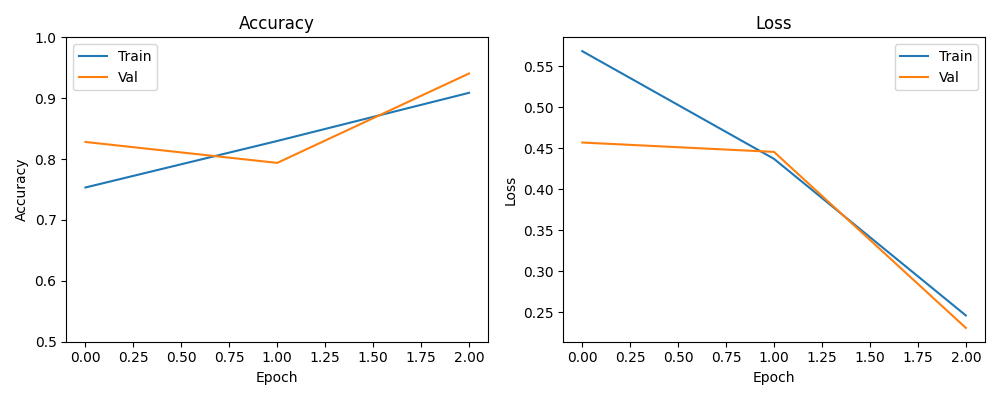
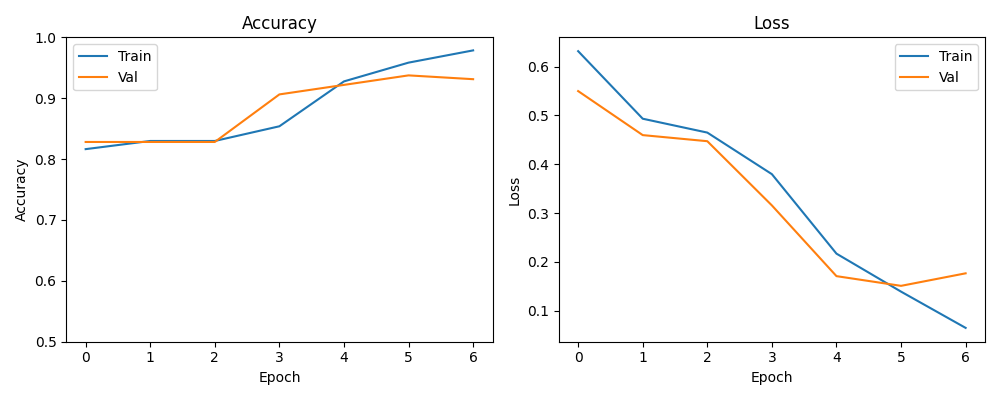
Updated bert

diff --git a/Hindi-Bert/Hindi-bert.py b/Hindi-Bert/Hindi-bert.py
@@ -26,45 +26,32 @@ def clean_hindi_text(text):
 
 # Load and preprocess data
 def load_data():
-    # Load dataset
     df_sarcastic = pd.read_csv('../data/Sarcasm_Hindi_Tweets-SARCASTIC.csv')
     df_non_sarcastic = pd.read_csv('../data/Sarcasm_Hindi_Tweets-NON-SARCASTIC.csv')
 
-    # Assign labels
     df_sarcastic['label'] = 'sarcastic'
     df_non_sarcastic['label'] = 'non_sarcastic'
 
-    # Combine datasets
     df = pd.concat([df_sarcastic, df_non_sarcastic], axis=0)
 
-    # Drop unnecessary columns
     columns_to_drop = ['username', 'acctdesc', 'location', 'following', 'followers', 
                        'totaltweets', 'usercreatedts', 'tweetcreatedts', 'retweetcount', 'hashtags']
     df = df.drop(columns=[col for col in columns_to_drop if col in df.columns], axis=1)
 
-    # Reset index
     df = df.reset_index(drop=True)
 
-    # Apply text cleaning
     df['clean_text'] = df['text'].apply(clean_hindi_text)
 
-    # Check for duplicates in clean_text
     duplicates = df[df.duplicated('clean_text', keep=False)]
     if not duplicates.empty:
         print(f"Found {len(duplicates)} duplicates in clean_text.")
-        
-        # Check for label conflicts among duplicates
         conflict_groups = duplicates.groupby('clean_text')['label'].nunique()
         conflicts = conflict_groups[conflict_groups > 1]
-        
         if not conflicts.empty:
             print(f"Found {len(conflicts)} clean_text entries with conflicting labels.")
-            # Remove entries with conflicting labels
             conflict_texts = conflicts.index
             df = df[~df['clean_text'].isin(conflict_texts)]
             print(f"Removed {len(conflict_texts)} conflicting entries.")
-        
-        # Remove duplicates, keeping the first occurrence
         df = df.drop_duplicates(subset='clean_text', keep='first')
         print(f"Removed duplicates, keeping first occurrence. New size: {len(df)}")
     else:
@@ -72,40 +59,28 @@ def load_data():
 
     return df
 
-# Main execution
 if __name__ == '__main__':
-    # Load and preprocess data
     df = load_data()
     
-    # Print basic statistics
     print("Total samples:", len(df))
     print("Class distribution:\n", df['label'].value_counts())
     
-    # Train-test split
     X_train, X_test, y_train, y_test = train_test_split(
         df['clean_text'], df['label'], test_size=0.3, stratify=df['label'], random_state=91
     )
     
-    # Text Preprocessing with ktrain
-    t = text.Transformer("monsoon-nlp/hindi-bert", maxlen=256, class_names=list(set(y_train.values)))
+    t = text.Transformer("monsoon-nlp/hindi-bert", maxlen=60, class_names=list(set(y_train.values)))  # Reduced maxlen
     
-    # Preprocess train and test data
     trn = t.preprocess_train(X_train.to_numpy(), y_train.to_numpy())
     evalr = t.preprocess_test(X_test.to_numpy(), y_test.to_numpy())
     
-    # Get the model
     model = t.get_classifier()
+    learner = ktrain.get_learner(model, train_data=trn, val_data=evalr, batch_size=8)  # Increased batch_size
     
-    # Create learner with reduced batch size
-    learner = ktrain.get_learner(model, train_data=trn, val_data=evalr, batch_size=4)
+    history = learner.fit_onecycle(1e-4, 7)  # Increased epochs
     
-    # Train the model
-    history = learner.fit_onecycle(1e-4, 3)
-    
-    # Save training curves
     def save_training_curves(history):
         plt.figure(figsize=(10, 4))
-        # Accuracy plot
         plt.subplot(1, 2, 1)
         plt.plot(history.history['accuracy'], label='Train')
         plt.plot(history.history['val_accuracy'], label='Val')
@@ -114,7 +89,6 @@ if __name__ == '__main__':
         plt.xlabel('Epoch')
         plt.ylabel('Accuracy')
         plt.legend()
-        # Loss plot
         plt.subplot(1, 2, 2)
         plt.plot(history.history['loss'], label='Train')
         plt.plot(history.history['val_loss'], label='Val')
@@ -128,27 +102,27 @@ if __name__ == '__main__':
     
     save_training_curves(history)
     
-    # Prediction
     predictor = ktrain.get_predictor(learner.model, preproc=t)
-    y_pred = predictor.predict(X_test.to_numpy())
+    y_pred = predictor.predict(X_test.to_numpy(), return_proba=False)
+    if not isinstance(y_pred[0], str):
+        y_pred_labels = [t.get_classes()[int(p)] for p in y_pred]
+    else:
+        y_pred_labels = y_pred
     
-    # Convert y_pred to labels if necessary
-    y_pred_labels = y_pred if isinstance(y_pred[0], str) else [predictor.get_classes()[p] for p in y_pred]
-    
-    # Classification report
     report = classification_report(y_test, y_pred_labels)
     with open('sarcasm_outputs/classification_report.txt', 'w') as f:
         f.write(report)
     
-    # Confusion matrix
     cm = confusion_matrix(y_test, y_pred_labels)
     plt.figure(figsize=(6, 5))
     sns.heatmap(cm, annot=True, fmt='d', cmap='Blues',
-                xticklabels=['Non-Sarcastic', 'Sarcastic'], yticklabels=['Non-Sarcastic', 'Sarcastic'], annot_kws={"size": 16})
-    plt.title('Confusion Matrix')
-    plt.ylabel('True')
-    plt.xlabel('Predicted')
-    plt.savefig('sarcasm_outputs/confusion_matrix.png')
+                xticklabels=['Non-Sarcastic', 'Sarcastic'], yticklabels=['Non-Sarcastic', 'Sarcastic'], annot_kws={"size": 22})
+    plt.title('Confusion Matrix', fontsize=20)
+    plt.ylabel('True', fontsize=20)
+    plt.xlabel('Predicted', fontsize=20)
+    plt.xticks(fontsize=22)
+    plt.yticks(fontsize=22)
+    plt.savefig('sarcasm_outputs/confusion_matrix.png', dpi=300, bbox_inches='tight')
     plt.close()
     
     print("Results saved in 'sarcasm_outputs' directory.")
